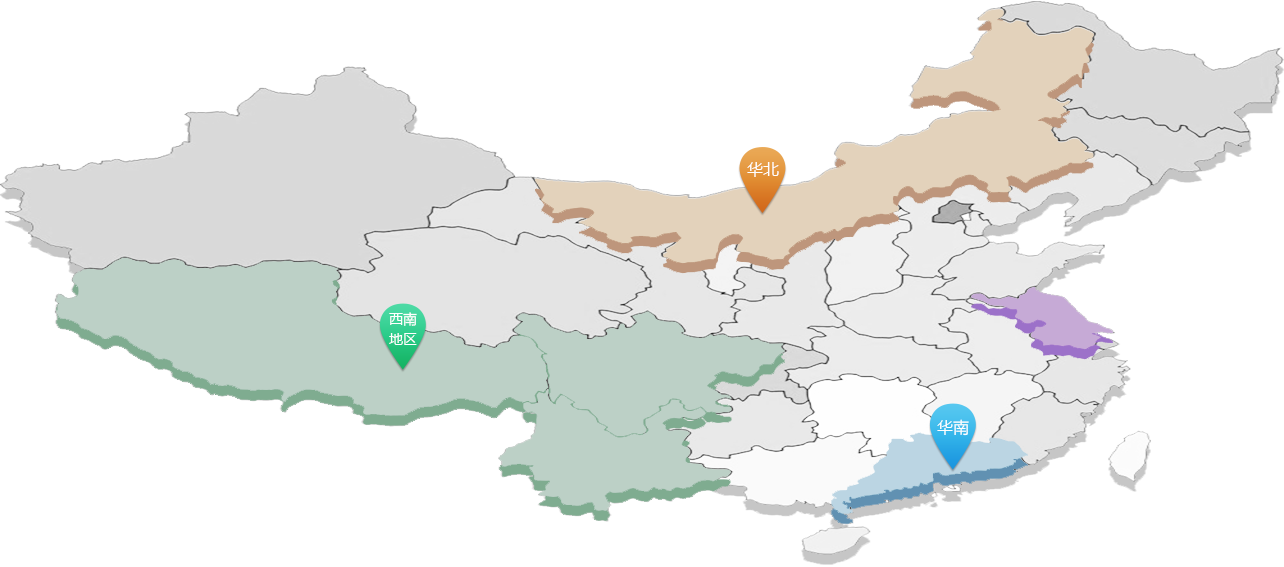
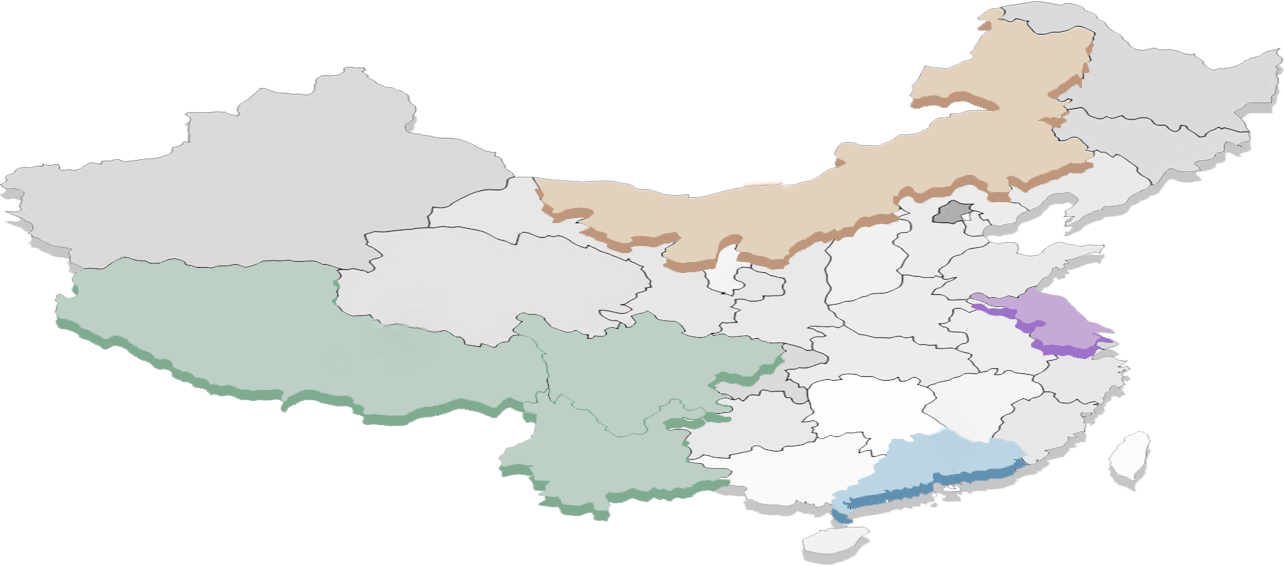
手机适配

Changed region(s): [[0.7165, 0.6896, 0.7788, 0.8395], [0.5607, 0.2399, 0.6231, 0.3898], [0.2804, 0.5397, 0.3427, 0.6596]]

diff --git a/guanwang/dev/public/css/connection.css b/guanwang/dev/public/css/connection.css
@@ -90,8 +90,8 @@
     cursor: pointer;
 }
 .bg_green{
-    top: 150px;
-    left: 183px;
+    top: 204px;
+    left: 320px
 }
 .bg_green img{
     border-color: #50c089;
